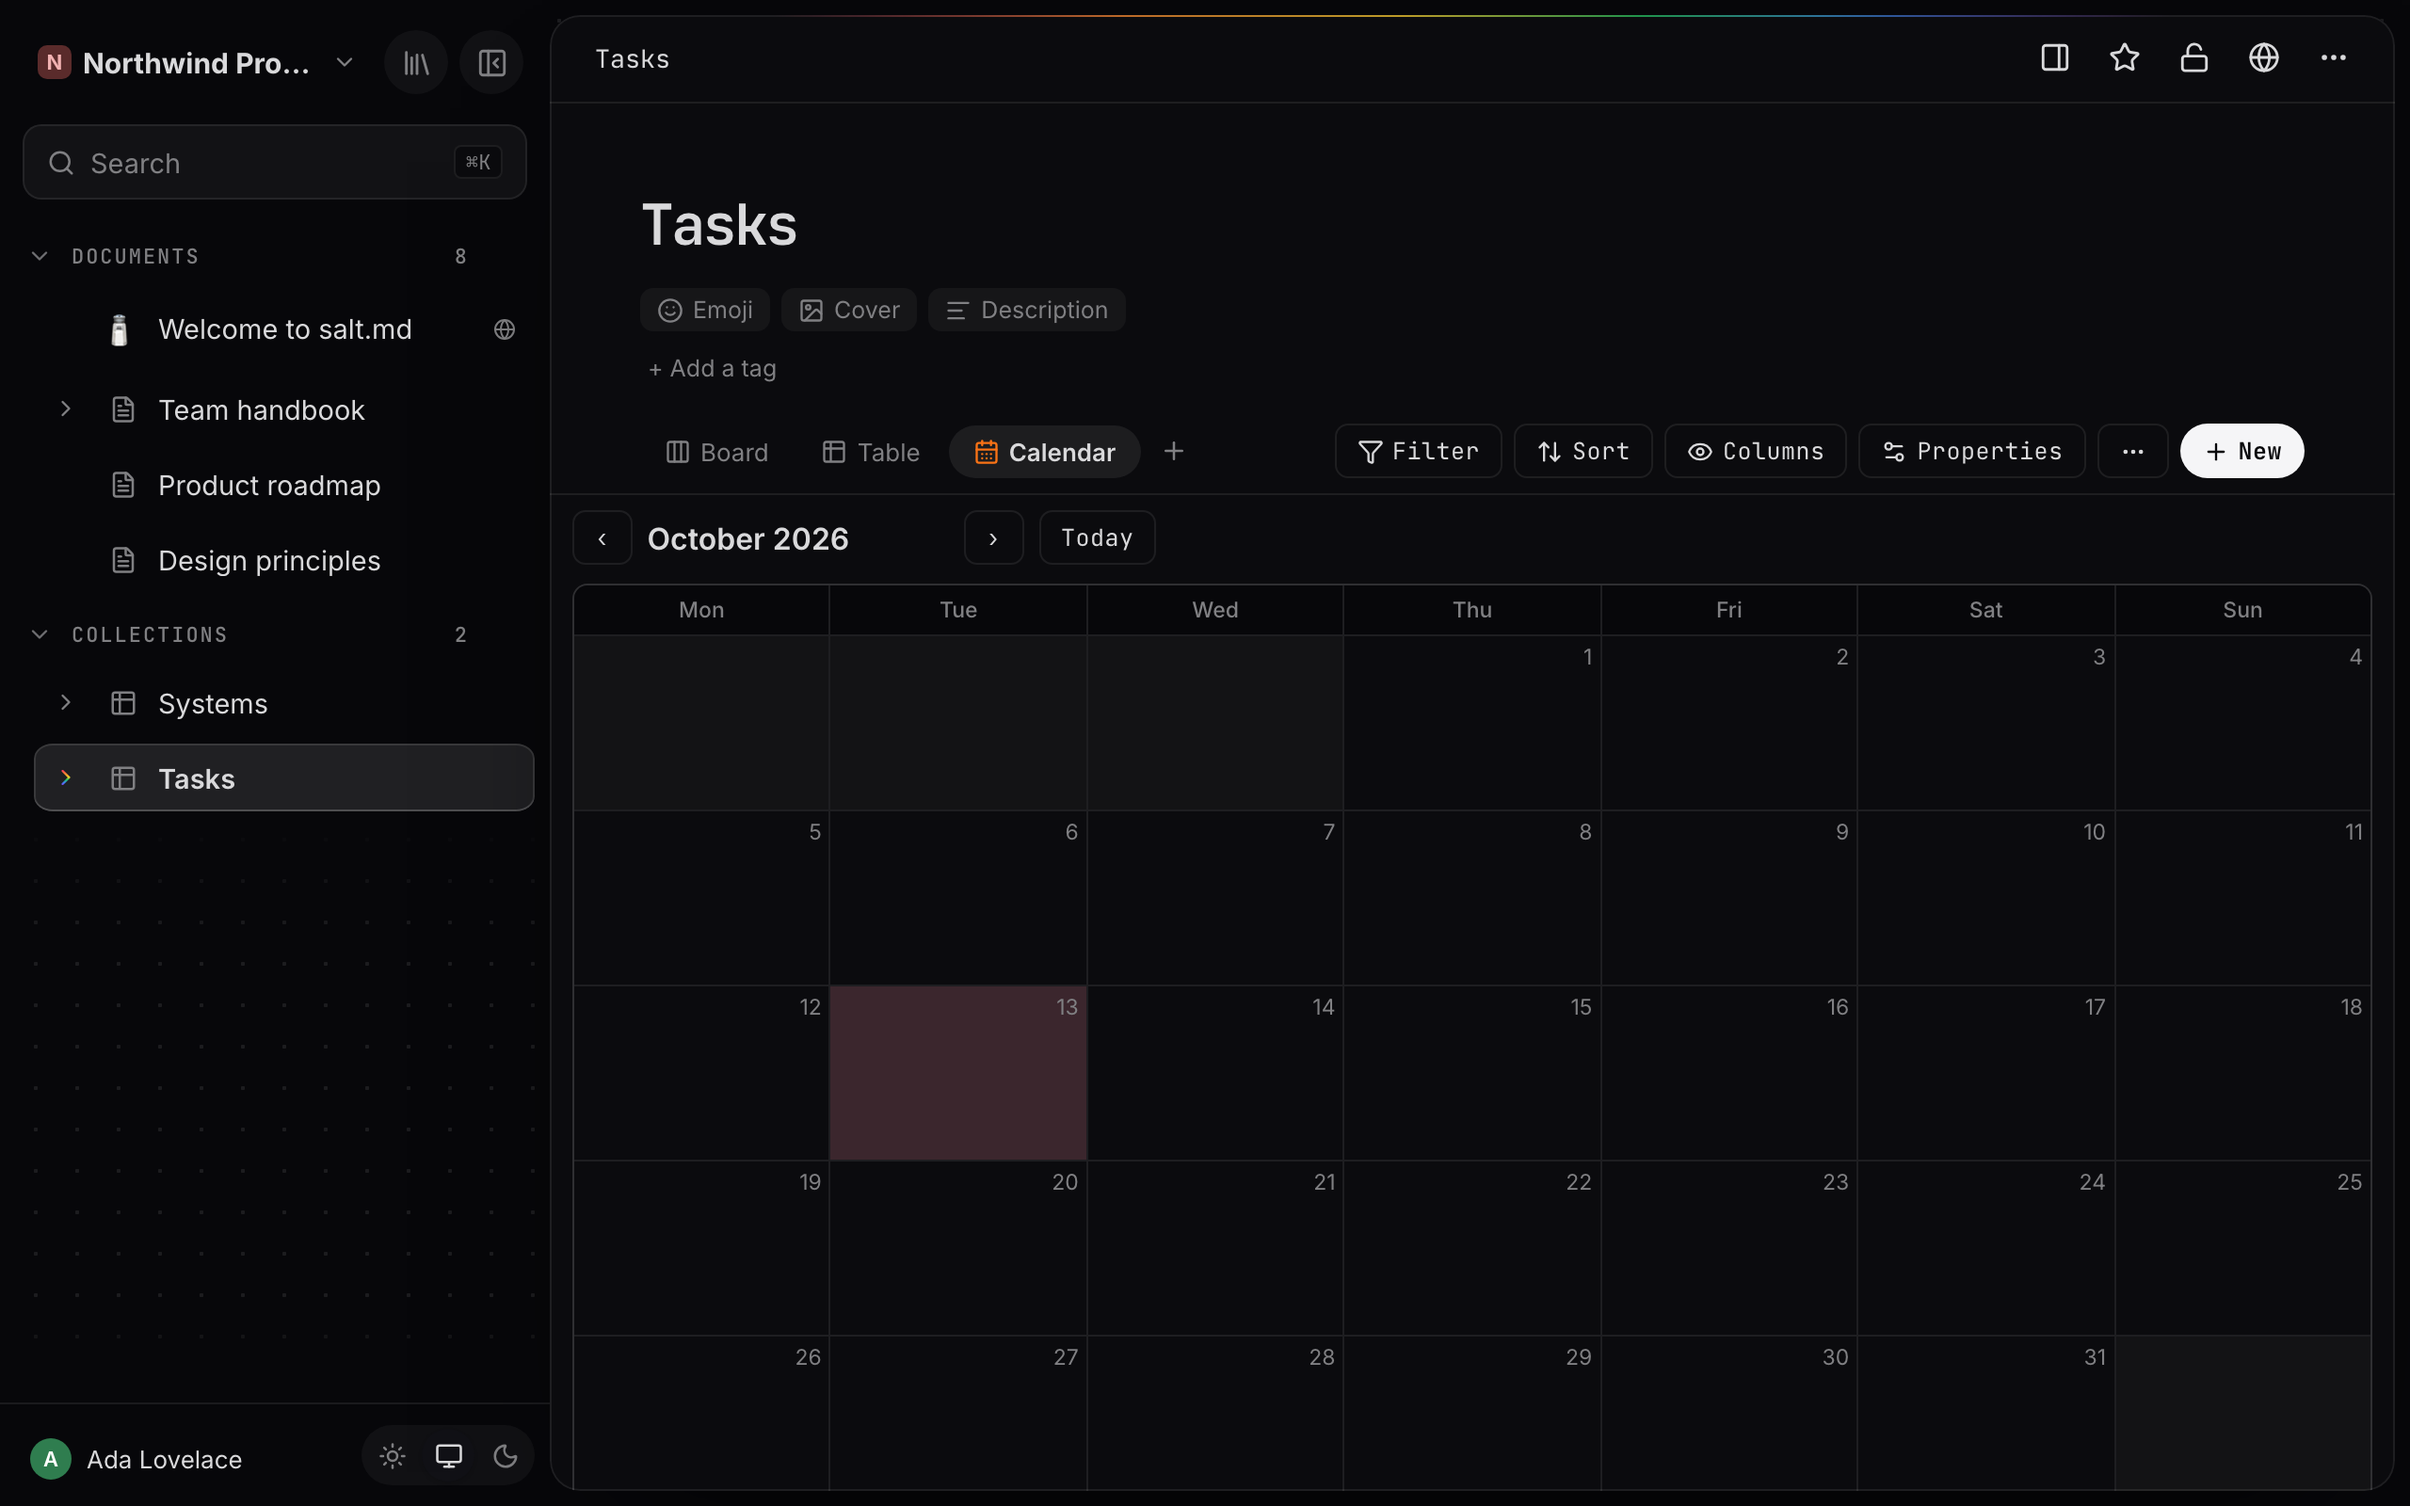
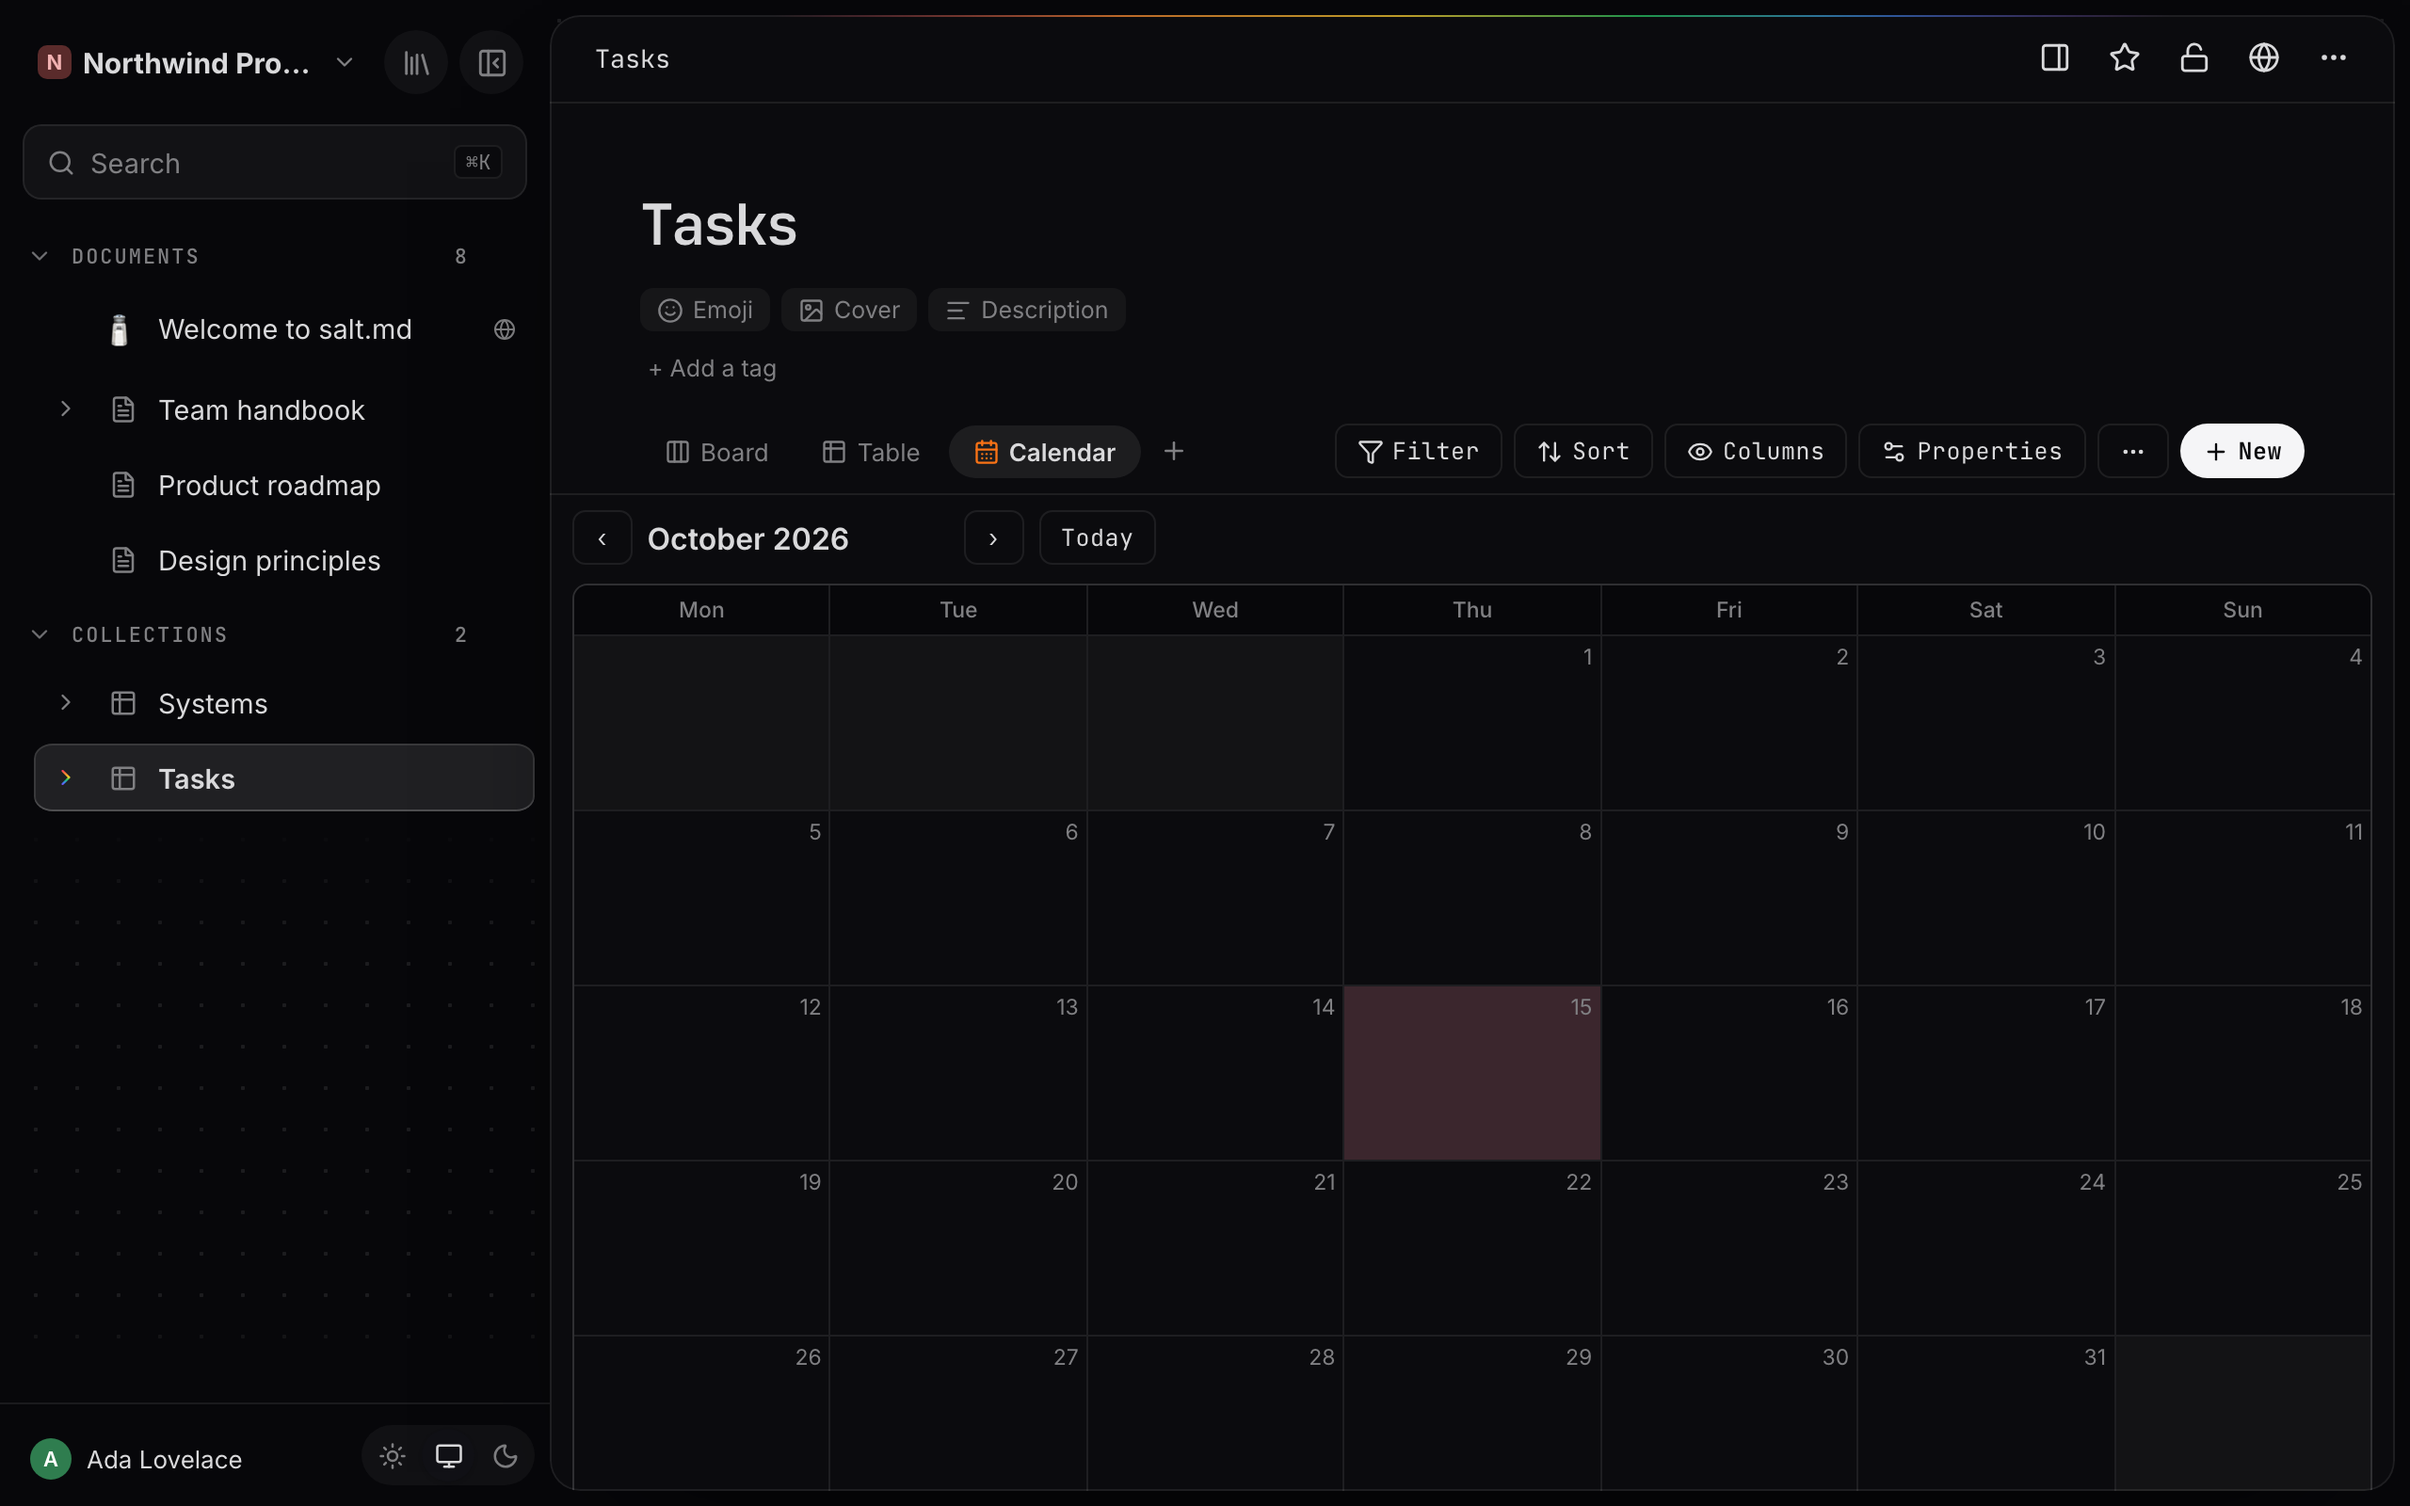
Smart dates: filter by created/updated, value always present, undefined-safe client

Changed region(s): [[0.5312, 0.6562, 0.6875, 0.7812], [0.3438, 0.6562, 0.4688, 0.7812]]

diff --git a/web/src/components/CollectionView.tsx b/web/src/components/CollectionView.tsx
@@ -152,7 +152,7 @@ function isEmptyVal(v: unknown): boolean {
  *  value. Never both — the same rule the server applies (rowFilter.vals). */
 export function filterValues(f: Filter): string[] {
   if (f.values?.length) return f.values;
-  return f.value === '' ? [] : [f.value];
+  return f.value ? [f.value] : [];
 }
 
 /** Is this condition finished enough to mean anything? An unfinished one must
@@ -161,13 +161,13 @@ export function filterValues(f: Filter): string[] {
  *  made the date filter look broken. `is_empty` is the deliberate version.
  *  A half-typed relative day ("today-") waits the same way. */
 export function filterIsArmed(f: Filter): boolean {
-  const op = f.op ?? (f.value === '' ? 'is_not_empty' : 'is');
+  const op = f.op ?? (f.value ? 'is' : 'is_not_empty');
   if (op === 'is_empty' || op === 'is_not_empty') return true;
   if (op === 'between')
     return (
-      f.value !== '' &&
+      !!f.value &&
       (f.value2 ?? '') !== '' &&
-      !isUnfinishedRelativeDay(f.value) &&
+      !isUnfinishedRelativeDay(f.value ?? '') &&
       !isUnfinishedRelativeDay(f.value2 ?? '')
     );
   const vals = filterValues(f);
@@ -176,7 +176,7 @@ export function filterIsArmed(f: Filter): boolean {
 
 function matchesFilter(row: Row, f: Filter, isDate: boolean): boolean {
   const v = row.props[f.property];
-  const op = f.op ?? (f.value === '' ? 'is_not_empty' : 'is');
+  const op = f.op ?? (f.value ? 'is' : 'is_not_empty');
   if (!filterIsArmed(f)) return true;
   // A relative day names a different date every day. Resolve it now — the
   // same way the server resolves it per query — or the rows the server sent
@@ -184,7 +184,7 @@ function matchesFilter(row: Row, f: Filter, isDate: boolean): boolean {
   // option named "Today" must keep matching the option, not the date.
   const day = (s: string) => (isDate ? (resolveSmartDate(s) ?? s) : s);
   const live = (s: string) => !isUnfinishedRelativeDay(s);
-  const value = day(f.value);
+  const value = day(f.value ?? '');
   const vals = filterValues(f)
     .filter(live)
     .map(day);

diff --git a/server/collections.go b/server/collections.go
@@ -182,11 +182,32 @@ func (s *Server) privateRowRule(userID, colID string) (string, []any) {
 // it. An empty condition means "does not filter": an unsafe property id, a
 // comparison with nothing to compare against, or a half-built range. The
 // caller skips those, so an unfinished condition never blanks the answer.
+// The two filters that are not about a column: when the row was made and when
+// it was last touched. Pseudo-properties — a view saves them in the same shape
+// as any column condition, and the client offers them under a System heading.
+const sortCreatedProp = "@created"
+const sortUpdatedProp = "@updated"
+
 func (f rowFilter) where() (string, []any) {
-	if !safePropID(f.Prop) {
+	if !safePropID(f.Prop) && f.Prop != sortCreatedProp && f.Prop != sortUpdatedProp {
 		return "", nil
 	}
+	// A relative day ("today-1M") names a different date every day. It is
+	// resolved per query in collectionRowsQuery (date properties only, so
+	// a status option named "Today" keeps working) — never here, where the
+	// property type is out of reach.
 	ex := "json_extract(props, '$." + f.Prop + "')"
+	// Created and Updated are not columns: they read the row's own timestamps
+	// as days, so every operator below compares days to days.
+	sysCol := ""
+	if f.Prop == sortCreatedProp {
+		sysCol = "created_at"
+	} else if f.Prop == sortUpdatedProp {
+		sysCol = "updated_at"
+	}
+	if sysCol != "" {
+		ex = "date(" + sysCol + ")"
+	}
 	op := f.Op
 	if op == "" {
 		if f.Value == "" {
@@ -233,6 +254,11 @@ func (f rowFilter) where() (string, []any) {
 	// The value may be stored as a scalar or inside a list (multiselect, a
 	// relation): both spellings have to answer the same question.
 	inList := "EXISTS (SELECT 1 FROM json_each(props, '$." + f.Prop + "') WHERE value IN (" + holders + "))"
+	// A system timestamp is neither a scalar in props nor a list: one value the
+	// row always has, so the list half of the question is always false.
+	if sysCol != "" {
+		inList = "1 = 0"
+	}
 	set := "(" + ex + " IS NOT NULL AND " + ex + " != '' AND " + ex + " != json('[]'))"
 	switch op {
 	case "is_empty":
@@ -240,10 +266,17 @@ func (f rowFilter) where() (string, []any) {
 	case "is_not_empty":
 		return set, nil
 	case "is":
+		// A system timestamp has no list half: its placeholders are its own.
+		if sysCol != "" {
+			return ex + " IN (" + holders + ")", anyOf
+		}
 		return "(" + ex + " IN (" + holders + ") OR " + inList + ")", append(anyOf, anyOf...)
 	case "is_not":
 		// A missing/empty value counts as "is not X" — and with a set, as
 		// "is none of them".
+		if sysCol != "" {
+			return ex + " NOT IN (" + holders + ")", anyOf
+		}
 		return "(" + ex + " IS NULL OR (" + ex + " NOT IN (" + holders + ") AND NOT " + inList + "))", append(anyOf, anyOf...)
 	case "contains":
 		like := "%" + f.Value + "%"

diff --git a/server/filter_test.go b/server/filter_test.go
@@ -211,3 +211,56 @@ func TestParseFilterGroups(t *testing.T) {
 		t.Errorf("second group is %#v, want the datum range", groups[1])
 	}
 }
+
+func TestSystemDateFilters(t *testing.T) {
+	s, col := filterFixture(t)
+	// Created and Updated filter as days, like any date column: the two rows
+	// below are a year apart, so every spelling below must split them.
+	oldID, newID := newID(), newID()
+	var ws string
+	if err := s.db.QueryRow(`SELECT id FROM workspaces LIMIT 1`).Scan(&ws); err != nil {
+		t.Fatal(err)
+	}
+	for _, r := range []struct {
+		id, created, updated string
+	}{
+		{oldID, "2020-05-01T10:00:00Z", "2020-06-01T10:00:00Z"},
+		{newID, "2024-05-01T10:00:00Z", "2024-06-01T10:00:00Z"},
+	} {
+		if _, err := s.db.Exec(`INSERT INTO pages (id, parent_id, workspace_id, title, type, props, position, created_at, updated_at)
+			VALUES (?, ?, ?, ?, 'row', '{}', 0, ?, ?)`, r.id, col, ws, "row", r.created, r.updated); err != nil {
+			t.Fatal(err)
+		}
+	}
+	u := &user{ID: "tester"}
+	has := func(list []map[string]any, id string) bool {
+		for _, r := range list {
+			if r["id"] == id {
+				return true
+			}
+		}
+		return false
+	}
+	for _, tc := range []struct {
+		name             string
+		filter           rowFilter
+		wantOld, wantNew bool
+	}{
+		{"created is", rowFilter{Prop: sortCreatedProp, Op: "is", Value: "2020-05-01"}, true, false},
+		{"created is not", rowFilter{Prop: sortCreatedProp, Op: "is_not", Value: "2020-05-01"}, false, true},
+		{"created after", rowFilter{Prop: sortCreatedProp, Op: "gt", Value: "2022-01-01"}, false, true},
+		{"created before", rowFilter{Prop: sortCreatedProp, Op: "lt", Value: "2022-01-01"}, true, false},
+		{"created between", rowFilter{Prop: sortCreatedProp, Op: "between", Value: "2024-01-01", Value2: "2024-12-31"}, false, true},
+		{"updated is", rowFilter{Prop: sortUpdatedProp, Op: "is", Value: "2024-06-01"}, false, true},
+		{"updated is not empty", rowFilter{Prop: sortUpdatedProp, Op: "is_not_empty"}, true, true},
+		{"updated is empty", rowFilter{Prop: sortUpdatedProp, Op: "is_empty"}, false, false},
+	} {
+		list, _, err := s.collectionRowsQuery(u, col, []rowFilter{tc.filter}, nil, "", 10, 0, time.Time{})
+		if err != nil {
+			t.Fatalf("%s: %v", tc.name, err)
+		}
+		if has(list, oldID) != tc.wantOld || has(list, newID) != tc.wantNew {
+			t.Errorf("%s: old=%v new=%v, want old=%v new=%v", tc.name, has(list, oldID), has(list, newID), tc.wantOld, tc.wantNew)
+		}
+	}
+}

diff --git a/server/mcp_schema.go b/server/mcp_schema.go
@@ -422,6 +422,15 @@ func checkViewFilter(f map[string]any, label string, has func(string) bool) (map
 			entry[k] = v
 		}
 	}
+	// `value` is written ALWAYS, even when the condition is expressed through
+	// `values` (a set) or through nothing at all (is_empty). The interface
+	// writes it that way, and a filter stored without it crashed the browser on
+	// the first read: matching a relative date — "today", "in 3 days" — goes
+	// through value.toLowerCase(), and undefined has none. One shape in, one
+	// shape out, and no reader has to defend against the other.
+	if _, ok := entry["value"]; !ok {
+		entry["value"] = ""
+	}
 	return entry, nil
 }
 

diff --git a/server/smartdate.go b/server/smartdate.go
@@ -188,6 +188,10 @@ func (s *Server) resolveSmartDates(collectionID string, filters []rowFilter, now
 			dates[id] = true
 		}
 	}
+	// Created and Updated read the row's own timestamps as days and are
+	// filterable with the same operators, so a relative day works on them too.
+	dates[sortCreatedProp] = true
+	dates[sortUpdatedProp] = true
 	out := make([]rowFilter, len(filters))
 	for i, f := range filters {
 		if dates[f.Prop] {
